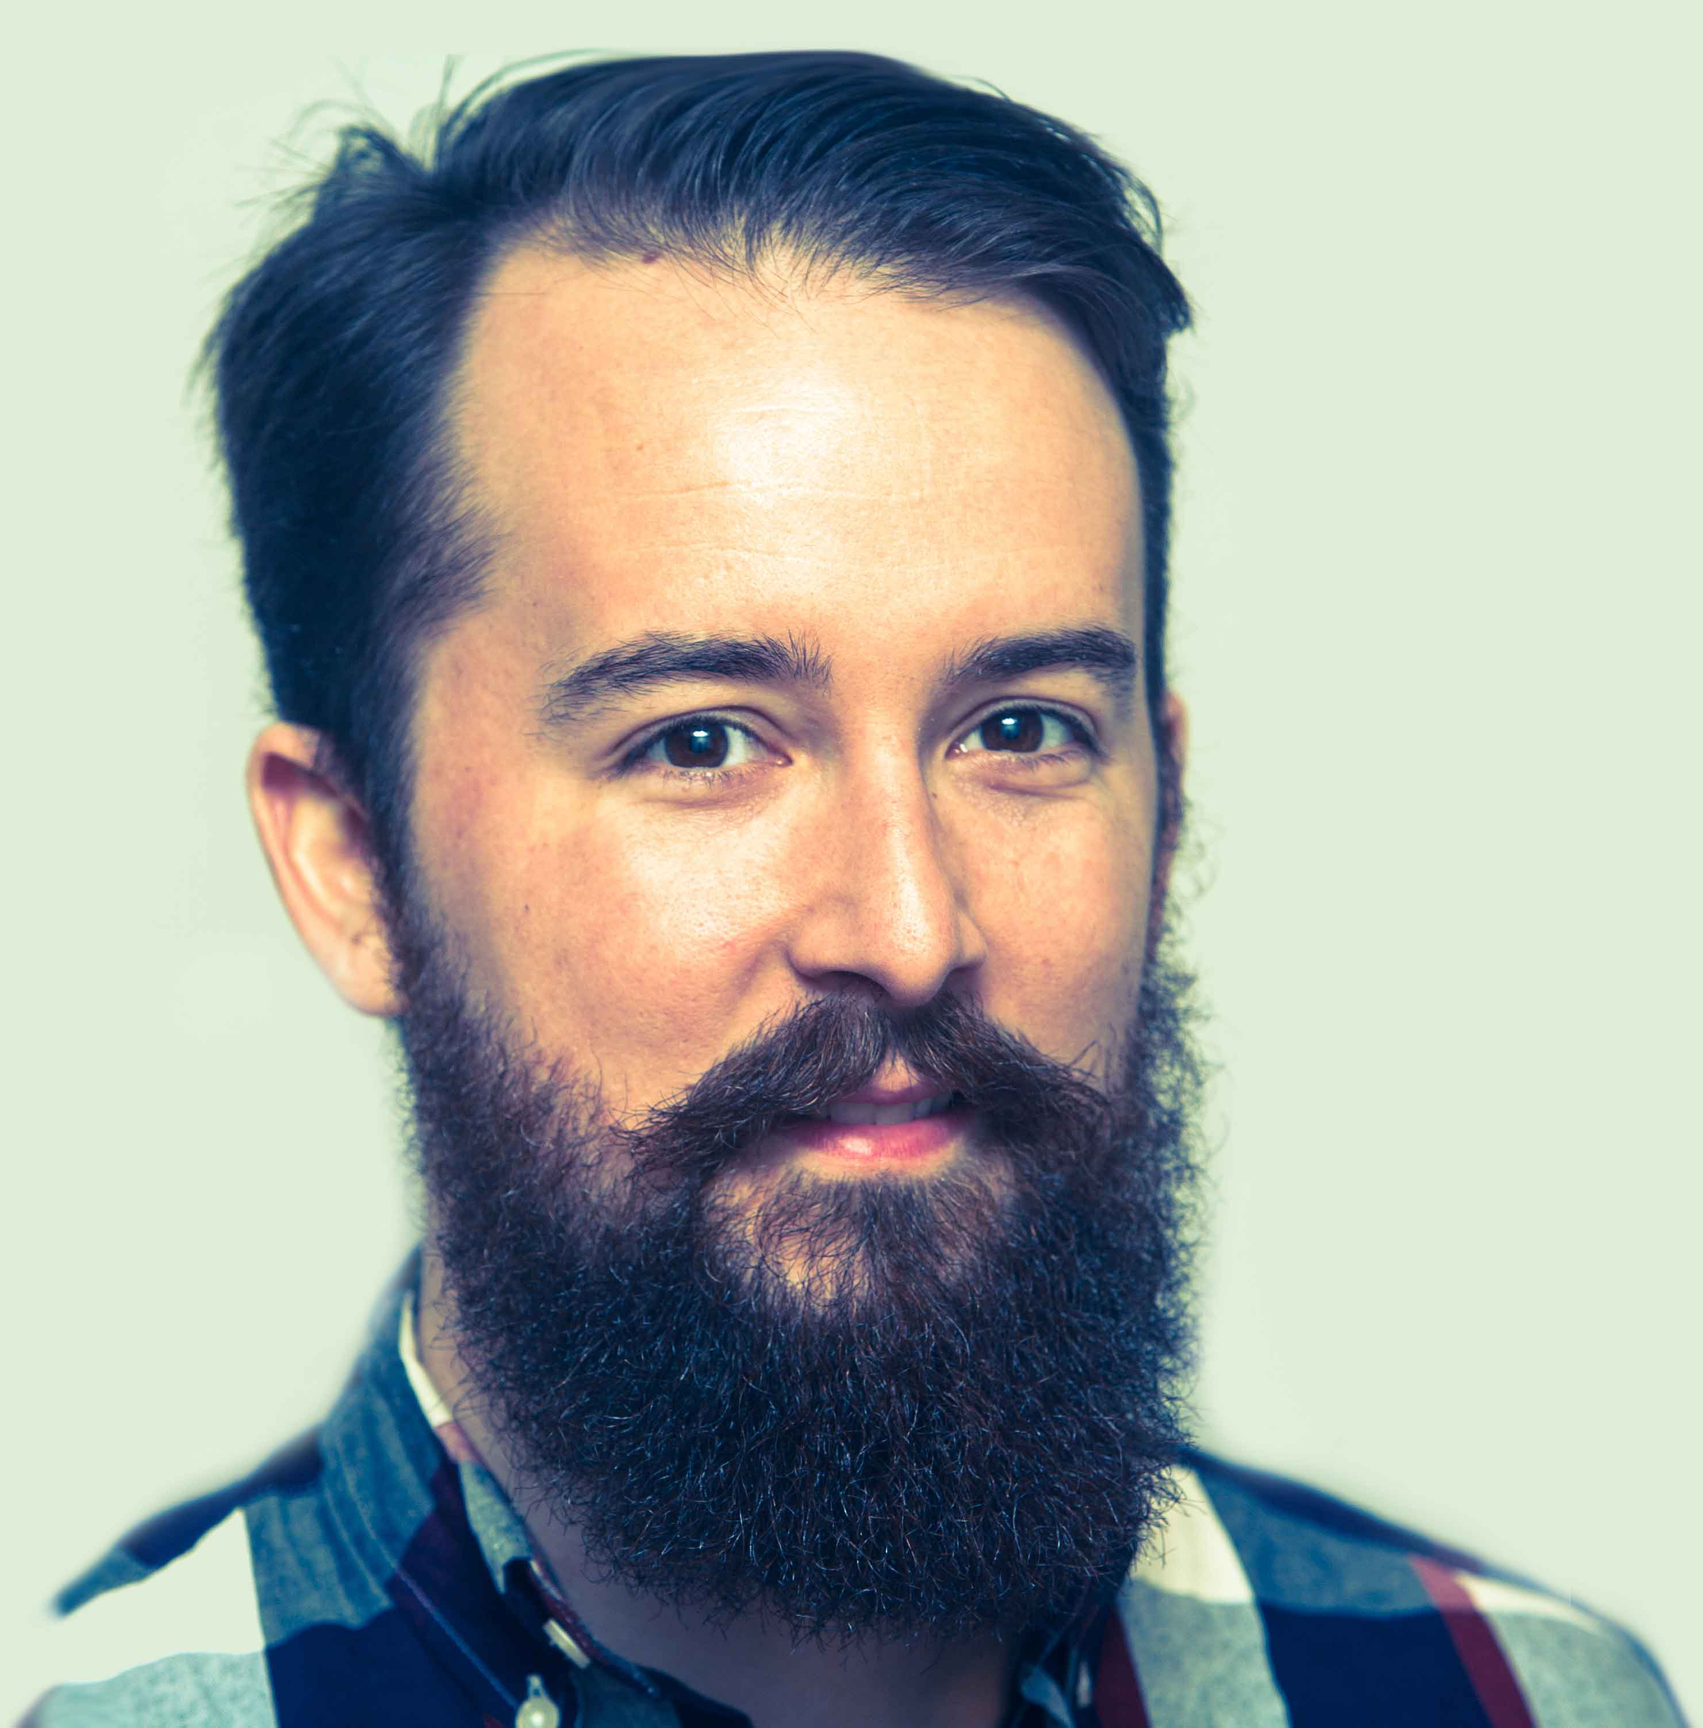
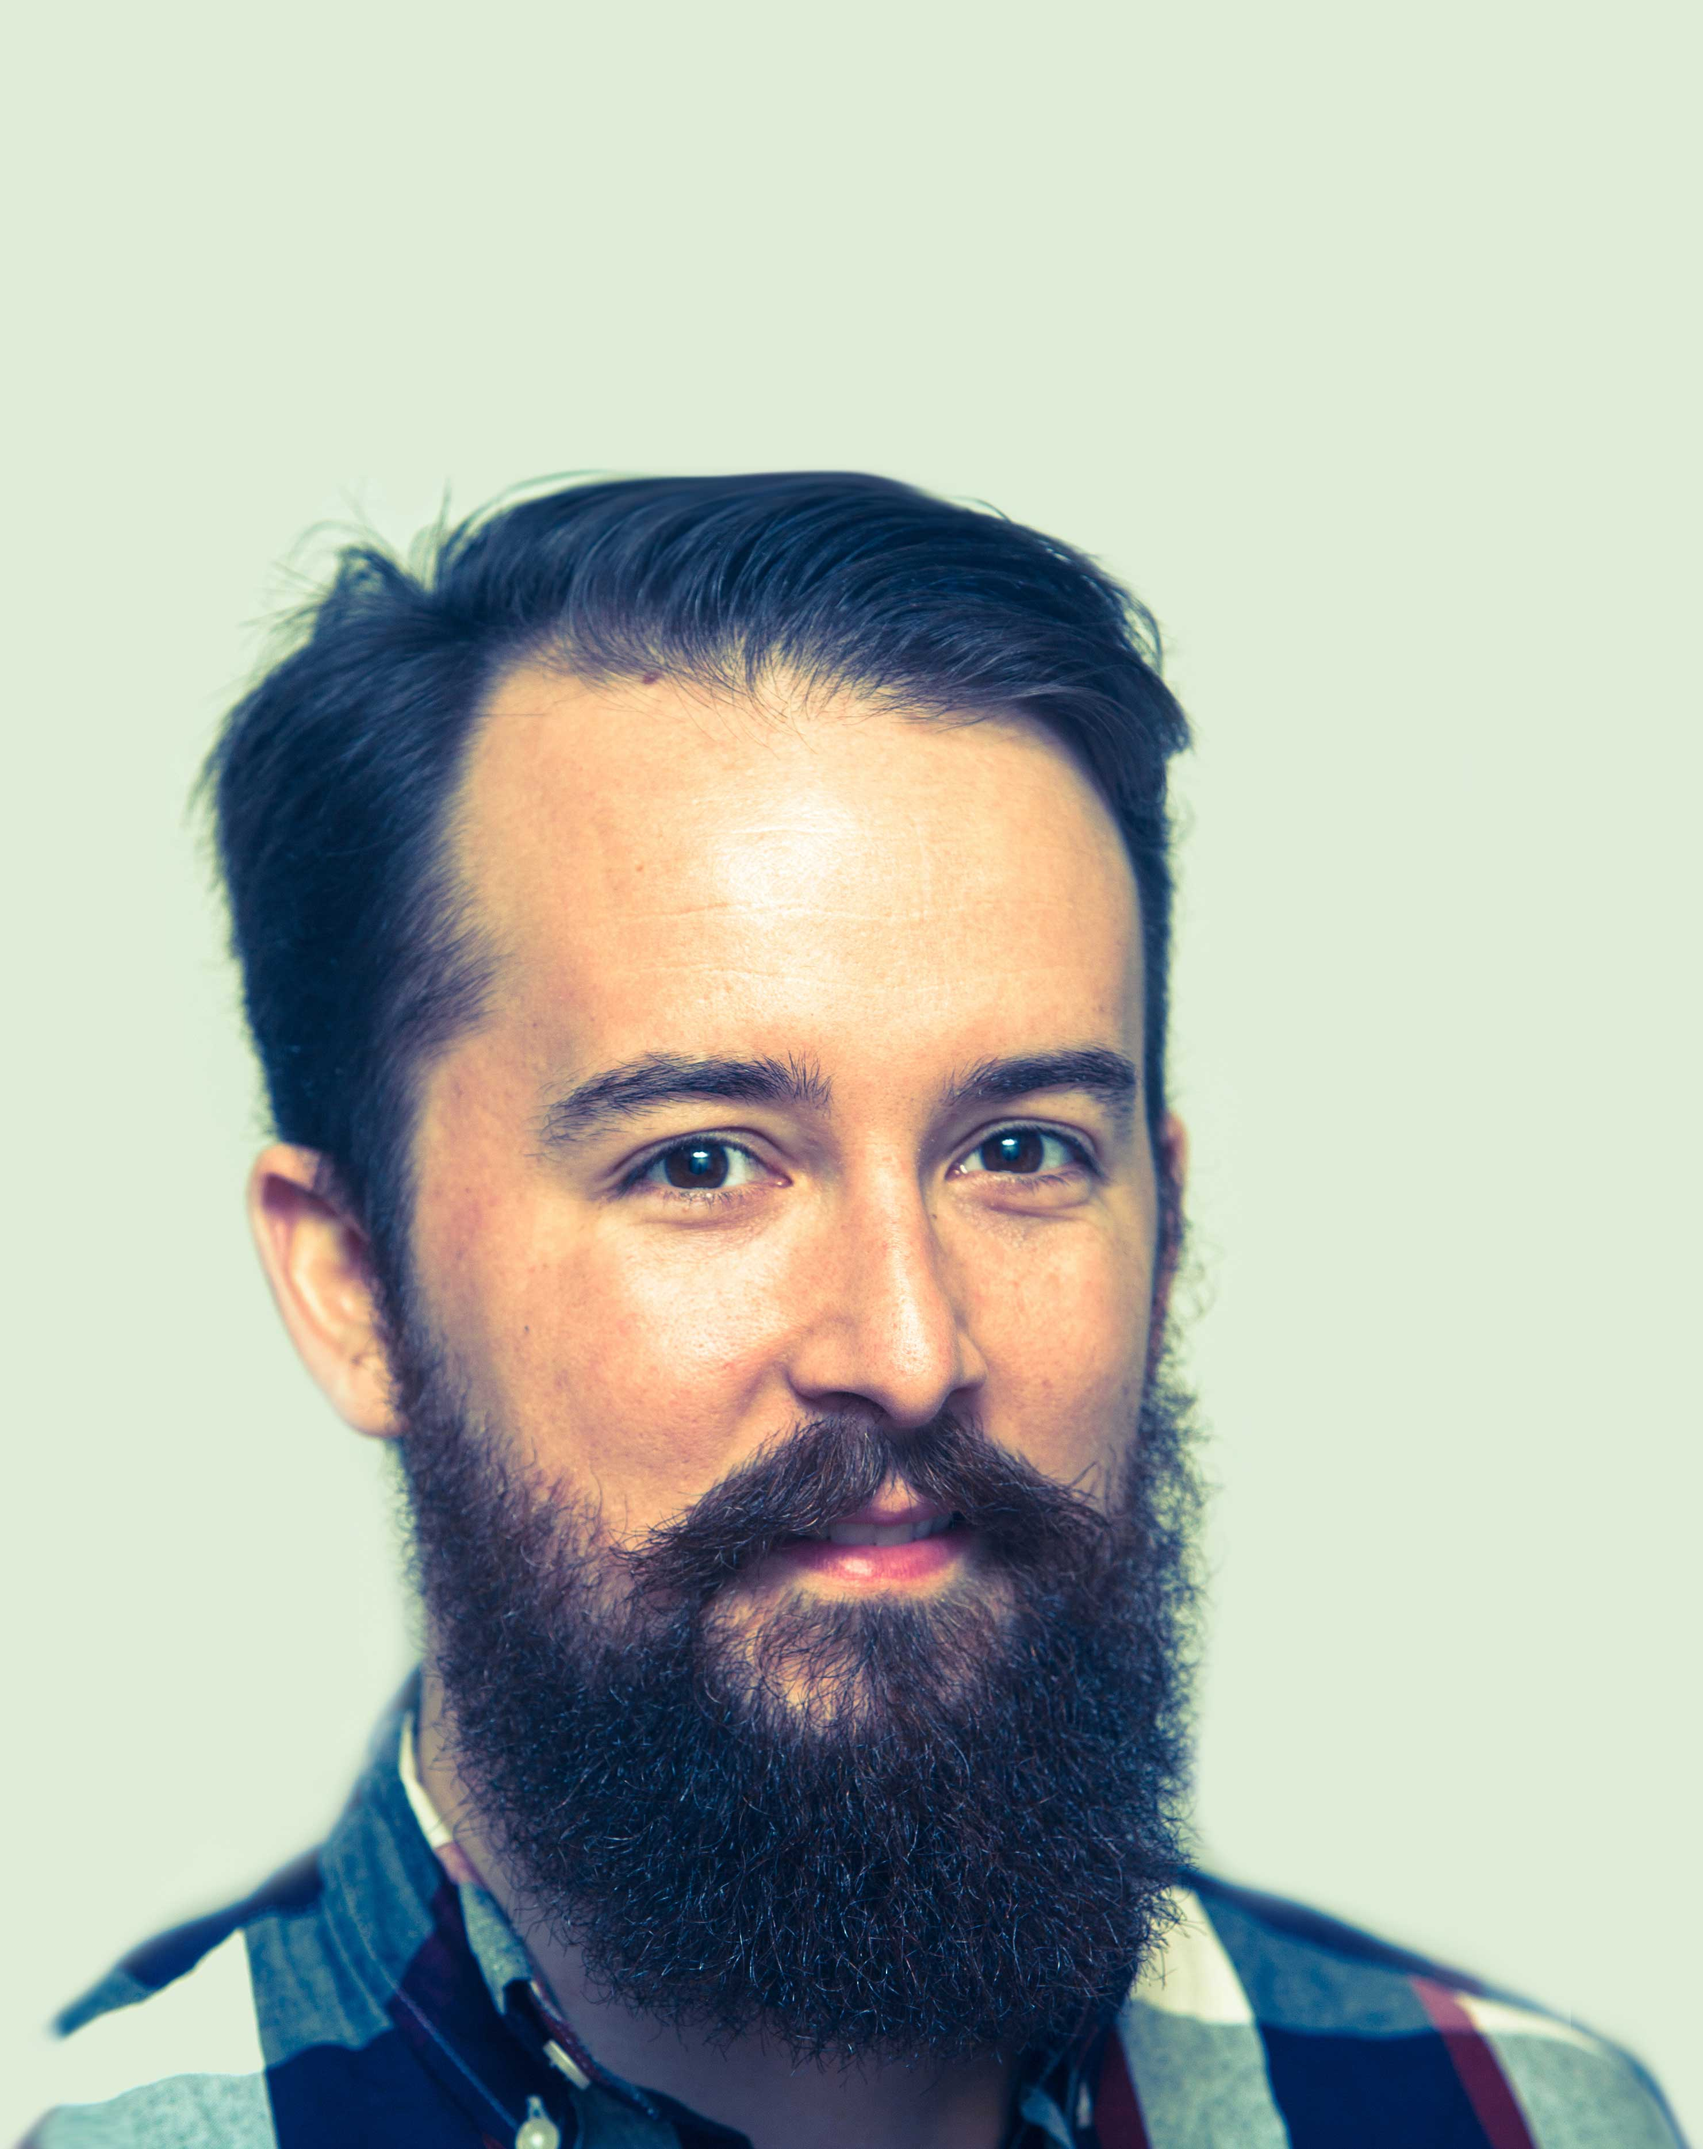
analytics

diff --git a/index.html b/index.html
@@ -6,7 +6,7 @@
     <head>
         <meta charset="utf-8">
         <meta http-equiv="X-UA-Compatible" content="IE=edge,chrome=1">
-        <title></title>
+        <title>Jesse Livingston | UX</title>
         <meta name="description" content="">
         <meta name="viewport" content="width=device-width, initial-scale=1">
 
@@ -14,36 +14,30 @@
 
         <link rel="stylesheet" href="css/main.css">
         <link href='http://fonts.googleapis.com/css?family=Open+Sans:400,600,700,300,300italic' rel='stylesheet' type='text/css'>
-        <script src="js/vendor/modernizr-2.6.2-respond-1.1.0.min.js"></script>
     </head>
     <body>
 
     <div class="container-fluid">
       <div class="row">
-        <div class="col-lg-6 col-lg-offset-5 col-md-6 col-md-offset-6 col-sm-10 col-sm-offset-1 content">
+        <div class="col-lg-6 col-lg-offset-5 col-md-6 col-md-offset-6 col-sm-12 col-sm-offset-0 content">
           <h1>Jesse Livingston | UX</h1>
-          <small>"UX is the intangible design of a strategy that brings us to a solution." -Erik Flowers</small>
-          <p>Humans need connection. But not with computers - connection with other humans. I strive to craft <em>human</em> designs that help people remember there is a living, breathing person on the other end. Whether as an <a target="_blank" href="https://www.youtube.com/watch?v=X732hsoD-gc">Orchestral Conductor</a>, a specialist in <a target="_blank" href="https://www.youtube.com/watch?v=I2kQSJqniIU">Eurhythmics</a>, or now as a UX designer at <a target="_blank" href="http://www.haystackinformatics.com">Haystack</a>, my passion has always been to connect humans with each other.</p>
-          <p>If you want to know more about me and my work, shoot me an <a href="mailto:jesselivingston1@gmail.com">email.</a></p>
-          <p>Let's make some music together.</p>
+          <small>"I love people more than music. That's why I became a musican." - Leonard Bernstein</small>
+          <p>I love people - connecting with them in engaging ways. In a former life, I engaged with people through classical music as an <a target="_blank" href="https://www.youtube.com/watch?v=X732hsoD-gc">Orchestral Conductor</a> and specialist in <a target="_blank" href="https://www.youtube.com/watch?v=I2kQSJqniIU">Eurhythmics</a>. I now create digital experiences as a UX designer for a health care start-up called Haystack.</p>
+          <p>At work, I create strategies, wireframes, usability tests, and visual designs for our cutting-edge <a target="_blank" href="http://www.haystackinformatics.com">patient privacy app</a>. At home, you'll find me pulling delicious shots from my espresso machine, enjoying a glass of Italian wine, or occasionally playing my trumpet.</p>
+          <p>If you want to connect, feel free to find me on <a target="_blank" href="http://www.linkedin.com/in/jessedavidlivingston">LinkedIn</a> or shoot me an <a href="mailto:jesselivingston1@gmail.com">email.</a></p>
         </div>
         <div id="photo"></div>
       </div>
     </div>
 
-            <script src="http://ajax.googleapis.com/ajax/libs/jquery/1.11.1/jquery.min.js"></script>
-        <script>window.jQuery || document.write('<script src="js/vendor/jquery-1.11.1.min.js"><\/script>')</script>
-        <script src="js/vendor/bootstrap.min.js"></script>
-        <script src="js/main.js"></script>
-
         <!-- Google Analytics: change UA-XXXXX-X to be your site's ID. -->
-         <script>
-        //     (function(b,o,i,l,e,r){b.GoogleAnalyticsObject=l;b[l]||(b[l]=
-        //     function(){(b[l].q=b[l].q||[]).push(arguments)});b[l].l=+new Date;
-        //     e=o.createElement(i);r=o.getElementsByTagName(i)[0];
-        //     e.src='//www.google-analytics.com/analytics.js';
-        //     r.parentNode.insertBefore(e,r)}(window,document,'script','ga'));
-        //     ga('create','UA-XXXXX-X');ga('send','pageview');
-        // </script>
+      <script>
+        (function(i,s,o,g,r,a,m){i['GoogleAnalyticsObject']=r;i[r]=i[r]||function(){
+        (i[r].q=i[r].q||[]).push(arguments)},i[r].l=1*new Date();a=s.createElement(o),
+        m=s.getElementsByTagName(o)[0];a.async=1;a.src=g;m.parentNode.insertBefore(a,m)
+        })(window,document,'script','//www.google-analytics.com/analytics.js','ga');
+        ga('create', 'UA-44055317-2', 'jesselivingston.com');
+        ga('send', 'pageview');
+      </script>
     </body>
 </html>

diff --git a/css/main.css b/css/main.css
@@ -11,7 +11,7 @@ body {
 
 
 h1 {
-	margin-top    : 80px;
+	margin-top    : 100px;
 }
 
 small {
@@ -27,7 +27,7 @@ p {
 	margin-top    : 20px;
 }
 
-a:hover {
+a:hover, a:focus, a:visited {
 	text-decoration: none;
 	color          : #e74c3c;
 }
@@ -38,7 +38,7 @@ a:hover {
 	}
 
 	h1 {
-		margin-top: 30px;
+		margin-top: 80px;
 	}
 }
 
@@ -55,24 +55,21 @@ a:hover {
 	}
 }
 
-@media(max-width: 775px) {
-	body {
-		font-size : 20px;
-		background-size: 400px;
-		background-position: center bottom;
-	}
 
-	h1 {
-		font-size : 32px;
-		margin-top: 20px;
-	}
-}
-
-@media(max-width: 775px) {
+@media(max-width: 600px) {
 	body {
 		font-size : 18px;
-		background-size: 400px;
+		background-image: none;
+	}
+
+	#photo {
+		height: 470px;
+		width: 100%;
+		background-image: url("../img/background-low.jpg");
 		background-position: center bottom;
+		background-attachment: scroll;
+		background-size: 400px;
+		background-repeat: no-repeat;
 	}
 
 	h1 {
@@ -84,40 +81,4 @@ a:hover {
 		margin-top: 10px;
 	}
 }
-
-@media(max-width: 650px) {
-	body {
-		background-image: none;
-	}
-
-	#photo {
-		height: 400px;
-		width: 100%;
-		background-image: url("../img/background-low.jpg");
-		background-position: center bottom;
-		background-attachment: scroll;
-		background-size: 400px;
-		background-repeat: no-repeat;
-	}
-}
-
-/* ==========================================================================
-   Author's custom styles
-   ========================================================================== */
-
-
-
-
-
-
-
-
-
-
-
-
-
-
-
-
 
